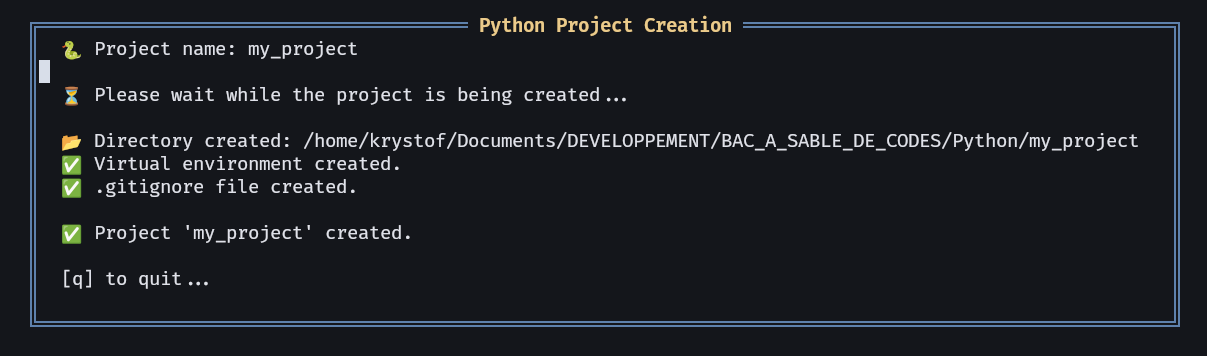
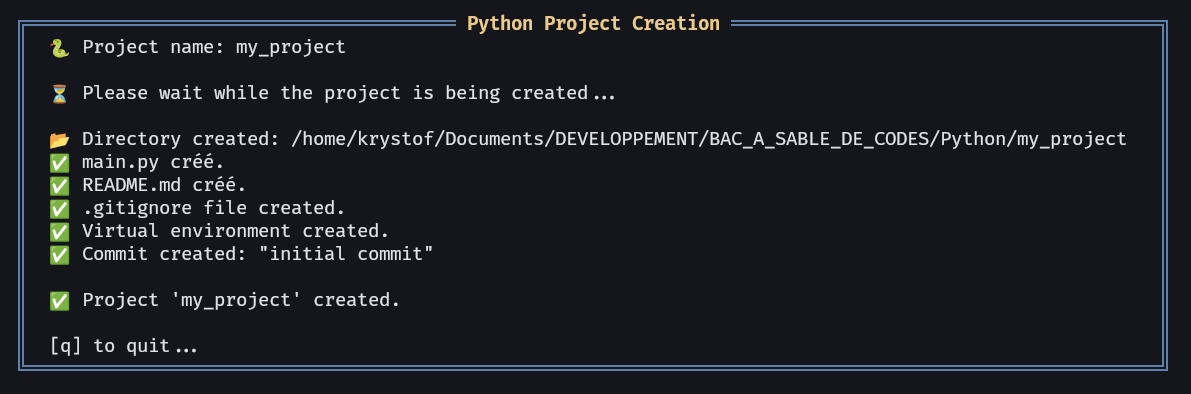
[Doc] update README.md

Changed region(s): [[0.0, 0.0309, 0.9941, 0.9579]]

diff --git a/README_FR.md b/README_FR.md
@@ -1,6 +1,6 @@
 # 🐍 pyflowenv-nvim
 
-**`pyflowenv-nvim`** est un *plugin* [Neovim](https://neovim.io/) écrit en [Lua](https://www.lua.org/), permettant de créer rapidement la structure minimale d’un projet **Python** : environnement virtuel isolé, `.gitignore`, le tout depuis une interface interactive dans **Neovim**.
+**`pyflowenv-nvim`** est un *plugin* [Neovim](https://neovim.io/) écrit en [Lua](https://www.lua.org/), permettant de créer rapidement la structure minimale d’un projet **Python** : environnement virtuel isolé, `.gitignore`, les répertoires `src/`, `assets/` et `tests/`, le tout depuis une interface interactive dans **Neovim**.
 
 ![demo](./assets/screenshot.png)
 
@@ -10,9 +10,9 @@ Ce plugin est idéal pour les développeurs Python qui veulent **initialiser rap
 
 ## ✨ Fonctionnalités
 
-- 📁 Création d’un répertoire pour le projet
-- 🐍 Génération automatique d’un environnement virtuel avec `python3 -m venv`
-- 🧾 Création d’un fichier `.gitignore` adapté aux projets Python
+- 📁 Création d’un répertoire et d'une architecture pour le projet
+- 🐍 Génération automatique d’un environnement virtuel avec `python3 -m venv` et d'un dépôt **Git**
+- 🧾 Création des fichiers `.gitignore` (adapté aux projets Python), `main.py` et `README.md`
 - 💬 Interface interactive dans une fenêtre *popup* **Neovim**
 - 🌐 Support multilingue (`fr`, `es`, `en`) avec messages traduits
 - ⚙ Option configurable pour personnaliser le nom du dossier `venv`
@@ -53,11 +53,20 @@ require("pyflowenv").setup({
 ```
 mon-projet/
 ├── .gitignore
-└── .venv/
+├── .git/
+├── .venv/
+├── assets/
+├── README.md
+├── src/
+│   └── mon_projet/
+│       └── main.py
+└── tests/
 ```
 
 - `.venv/` : environnement virtuel Python (non activé automatiquement)
 - `.gitignore` : contient des règles standards ̀.venv`, `__pycache__/`, fichiers `.log`, etc.
+- `main.py` : contient un code minimal.
+- `README.md` : contient `# mon_projet`
 
 ---
 
@@ -76,9 +85,7 @@ Le choix se réalise via l'option `lang = "en"` dans `setup()`.
 
 ## 🔭 Feuille de route (à venir)
 
-- 📝 Création automatique de `main.py`
 - 🧪 Détection et intégration avec **poetry** ou **pyenv**
-- 🏗 Génération de structure modulaire (`src/`, `tests/`, etc.)
 - 🔍 Intégration avec **telescope.nvim** pour sélectionner un répertoire
 
 ---

diff --git a/README.md b/README.md
@@ -1,6 +1,6 @@
 # 🐍 pyflowenv-nvim
 
-**`pyflowenv-nvim`** is a [Neovim](https://neovim.io/) *plugin* written in [Lua](https://www.lua.org/) that quickly creates the minimal structure of a **Python** project: isolated virtual environment, `.gitignore`, all from an interactive interface inside **Neovim**.
+**`pyflowenv-nvim`** is a [Neovim](https://neovim.io/) *plugin* written in [Lua](https://www.lua.org/), designed to quickly generate the minimal structure for a **Python** project: an isolated virtual environment, a `.gitignore` file, the `src/`, `assets/`, and `tests/` directories — all from an interactive interface inside **Neovim**.
 
 ![demo](./assets/screenshot_en.png)
 
@@ -10,9 +10,9 @@ This plugin is ideal for Python developers who want to **quickly initialize a pr
 
 ## ✨ Features
 
-- 📁 Create a directory for the project
-- 🐍 Automatically generate a virtual environment with `python3 -m venv`
-- 🧾 Create a `.gitignore` file tailored for Python projects
+- 📁 Creates a project directory and recommended architecture
+- 🐍 Automatically sets up a virtual environment with `python3 -m venv` and initializes a **Git** repository
+- 🧾 Generates `.gitignore` (adapted for Python projects), `main.py`, and `README.md` files
 - 💬 Interactive interface in a **Neovim** *popup* window
 - 🌐 Multilingual support (`fr`, `es`, `en`) with translated messages
 - ⚙ Configurable option to customize the `venv` folder name
@@ -51,13 +51,22 @@ require("pyflowenv").setup({
 ## 📂 Generated Structure
 
 ```
-mon-projet/
+my_project/
 ├── .gitignore
-└── .venv/
+├── .git/
+├── .venv/
+├── assets/
+├── README.md
+├── src/
+│   └── my_project/
+│       └── main.py
+└── tests/
 ```
 
 - `.venv/`: Python virtual environment (not activated automatically)  
 - `.gitignore`: contains standard rules to ignore `.venv`, `__pycache__/`, `.log` files, etc.
+- `main.py`: contains minimal starter code.
+- `README.md`: contains `# my_project`
 
 ---
 
@@ -76,9 +85,7 @@ The choice is made via the option `lang = "en"` in `setup()`.
 
 ## 🔭 Roadmap (Coming Soon)
 
-- 📝 Automatic creation of `main.py`
 - 🧪 Detection and integration with **poetry** or **pyenv**
-- 🏗 Modular structure generation (`src/`, `tests/`, etc.)
 - 🔍 Integration with **telescope.nvim** for directory selection
 
 ---
